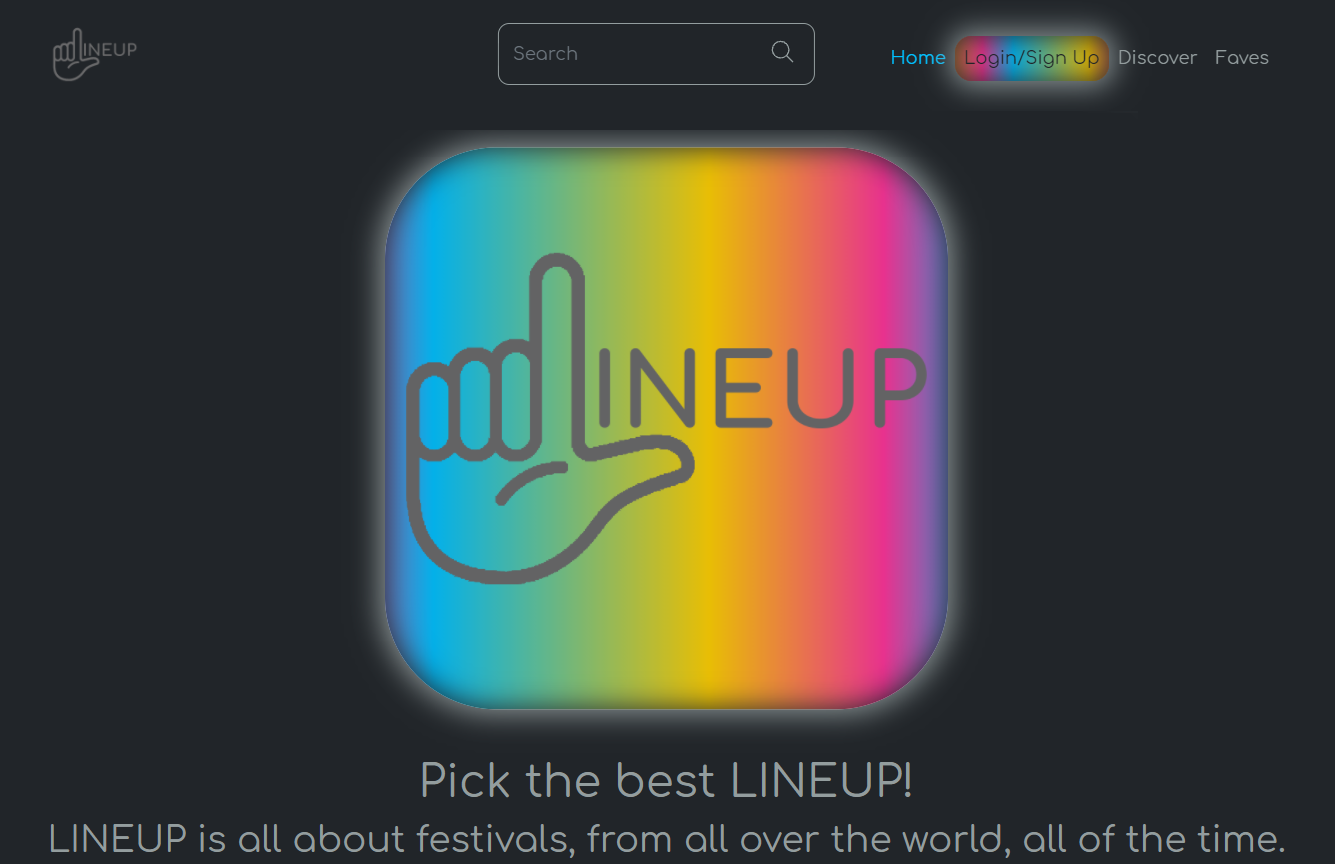
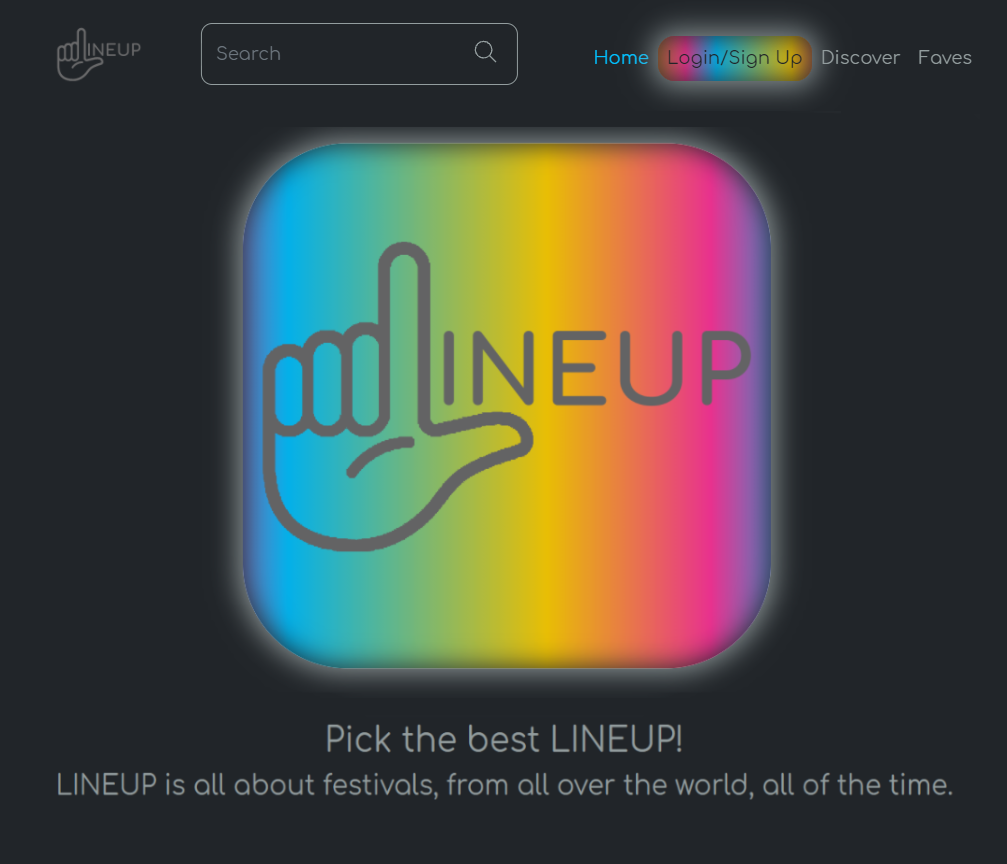
trying to fix media queries -_-

diff --git a/src/components/Develop/style.css b/src/components/Develop/style.css
@@ -51,8 +51,8 @@
 }
 
 .portfolioImgDev {
-  width: 400px !important;
-  height: 325px !important;
+  width: 350px !important;
+  height: 315px !important;
 }
 
 .img-thumbnail {
@@ -87,4 +87,17 @@
 
 .projectDescription::-webkit-scrollbar-thumb {
   background: hotpink !important;
+}
+
+
+@media only screen and (max-width: 768px) {
+  .cardContainerDevelop {
+    display: flex;
+    flex-direction: column;
+    justify-content: center !important;
+    align-items: center !important;
+    width: 65%; 
+    margin-top: -10px !important;
+    /* margin-left: 80px !important; */
+  }
 }

diff --git a/src/components/Create/style.css b/src/components/Create/style.css
@@ -70,3 +70,19 @@
   -webkit-filter: grayscale(100%); /* Ch 23+, Saf 6.0+, BB 10.0+ */
   filter: grayscale(100%); /* FF 35+ */
 }
+
+
+@media only screen and (max-width: 768px) {
+  .cardContainerCreate {
+    display: flex;
+    flex-direction: column;
+    justify-content: center !important;
+    align-items: center !important;
+    width: 65%; 
+    margin-top: 5px !important;
+  }
+
+  #create {
+    margin-top: -15px !important;
+  }
+}

diff --git a/src/components/ContactCard/style.css b/src/components/ContactCard/style.css
@@ -95,7 +95,11 @@
     justify-content: center !important;
     align-items: center !important;
     width: 65%; 
-    margin-left: 110px !important;
+    margin-left: 80px !important;
+  }
+
+  #contact {
+    margin-top: -5px !important;
   }
 }
 

diff --git a/src/components/Navbar/style.css b/src/components/Navbar/style.css
@@ -21,6 +21,6 @@
 
 @media only screen and (max-width: 768px) {
   .nav-link {
-    font-size: larger !important;
+    font-size: large !important;
   }
 }
